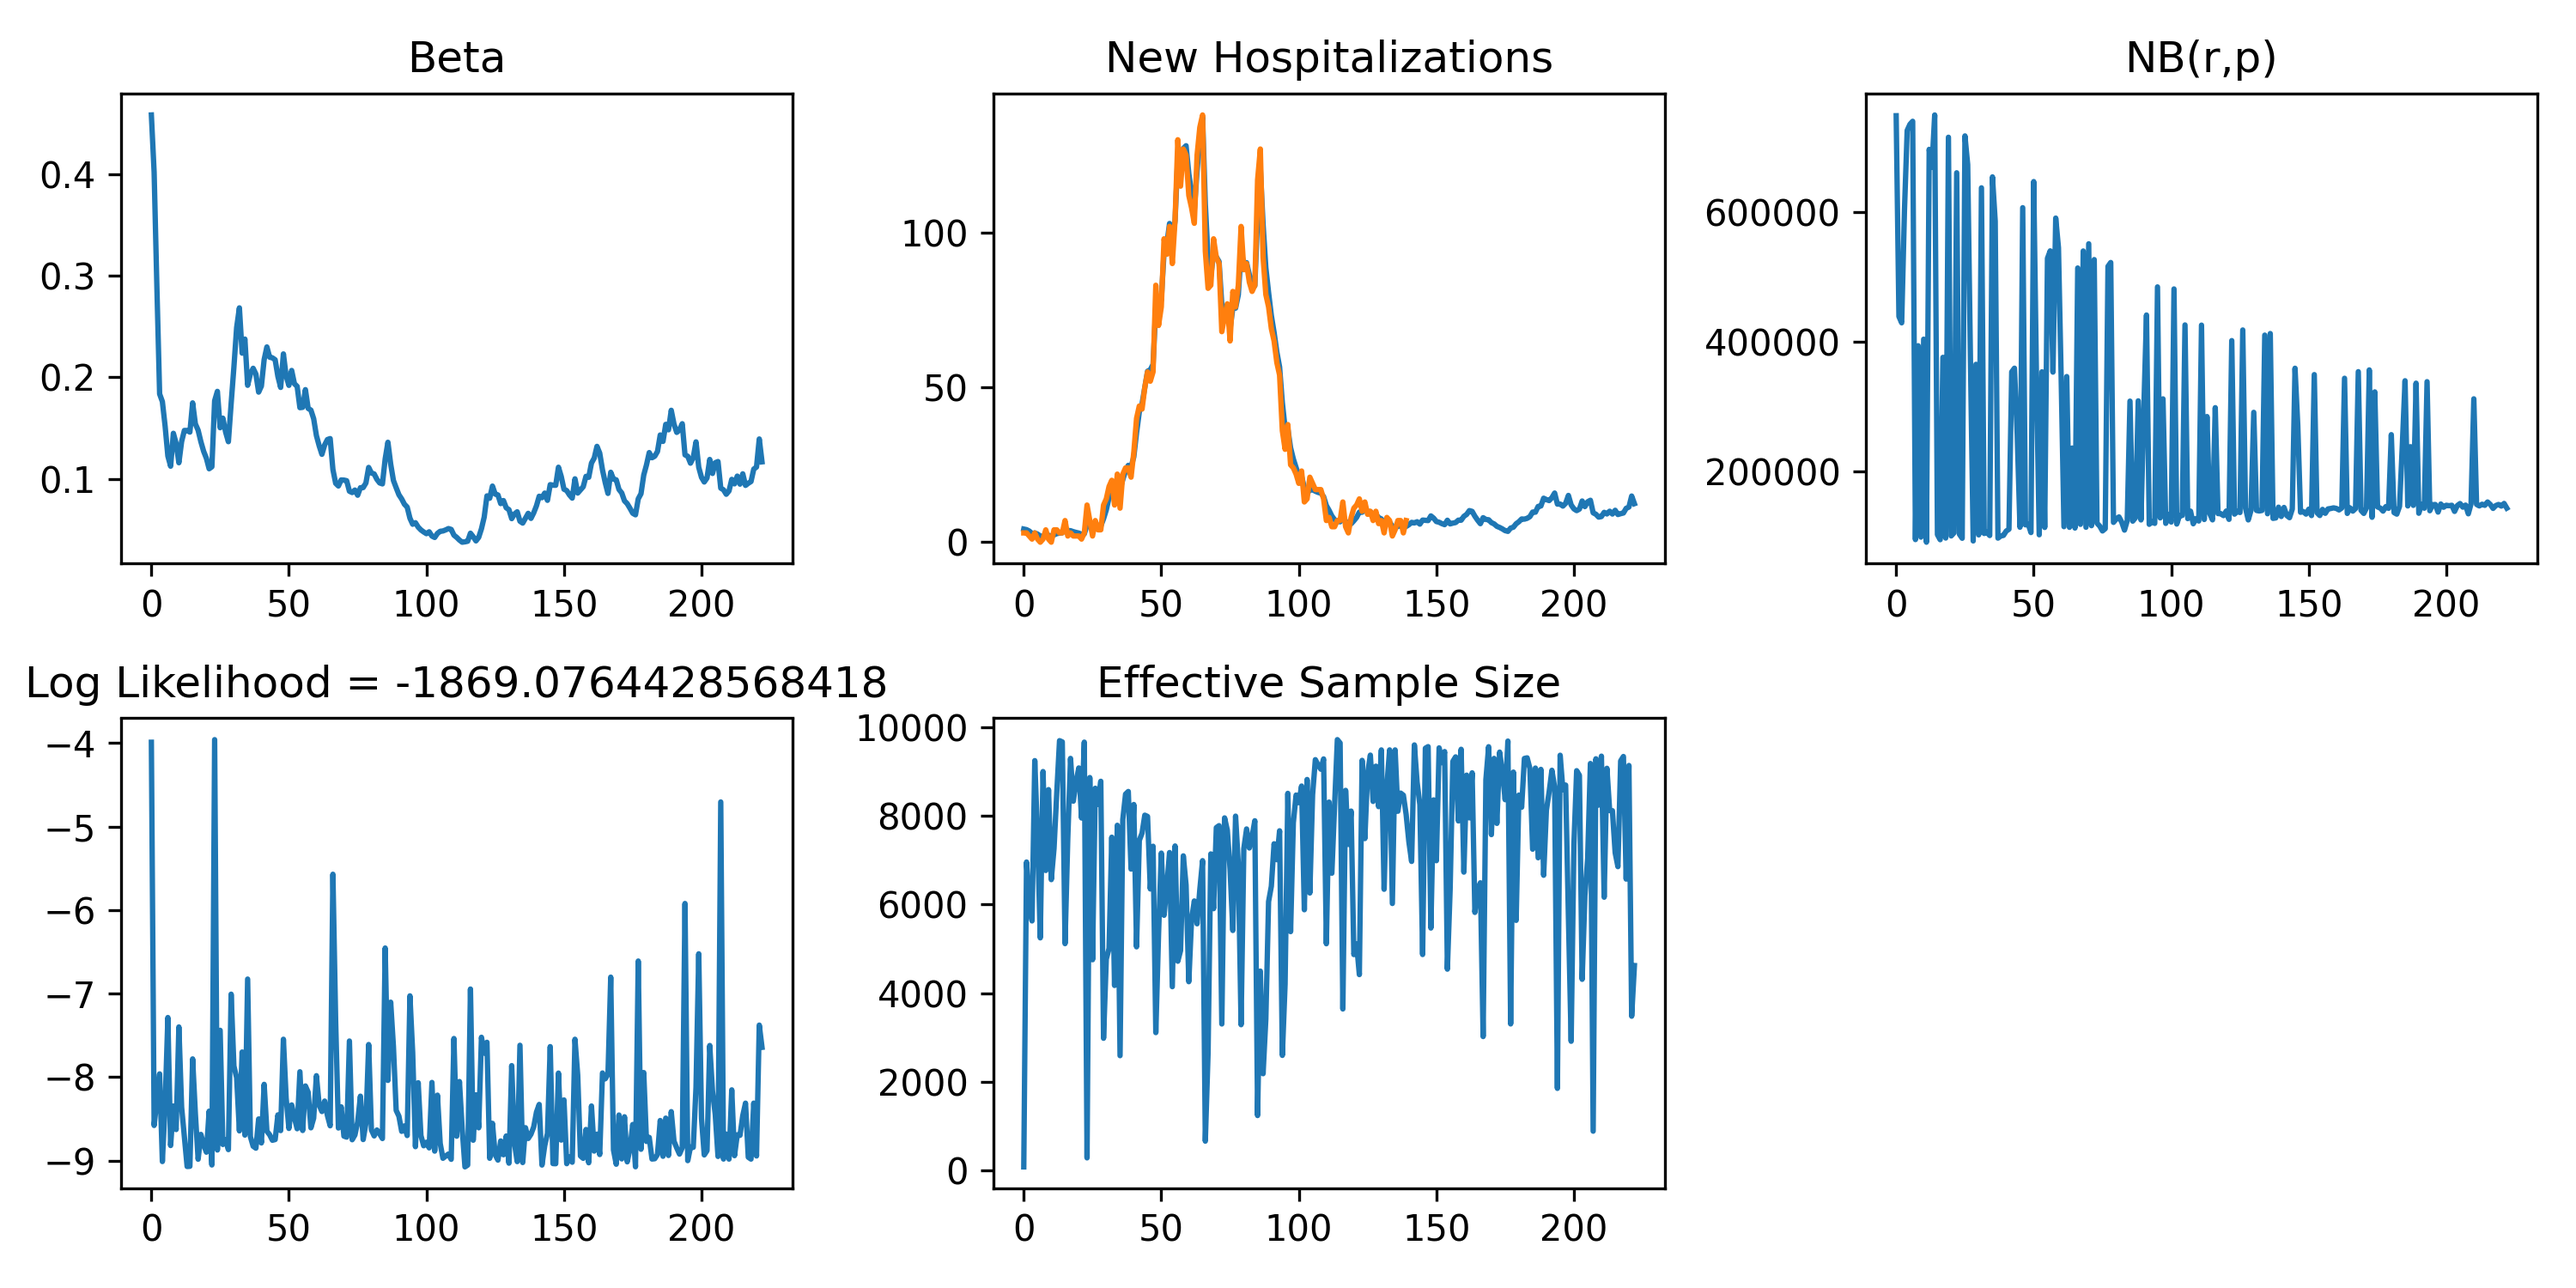
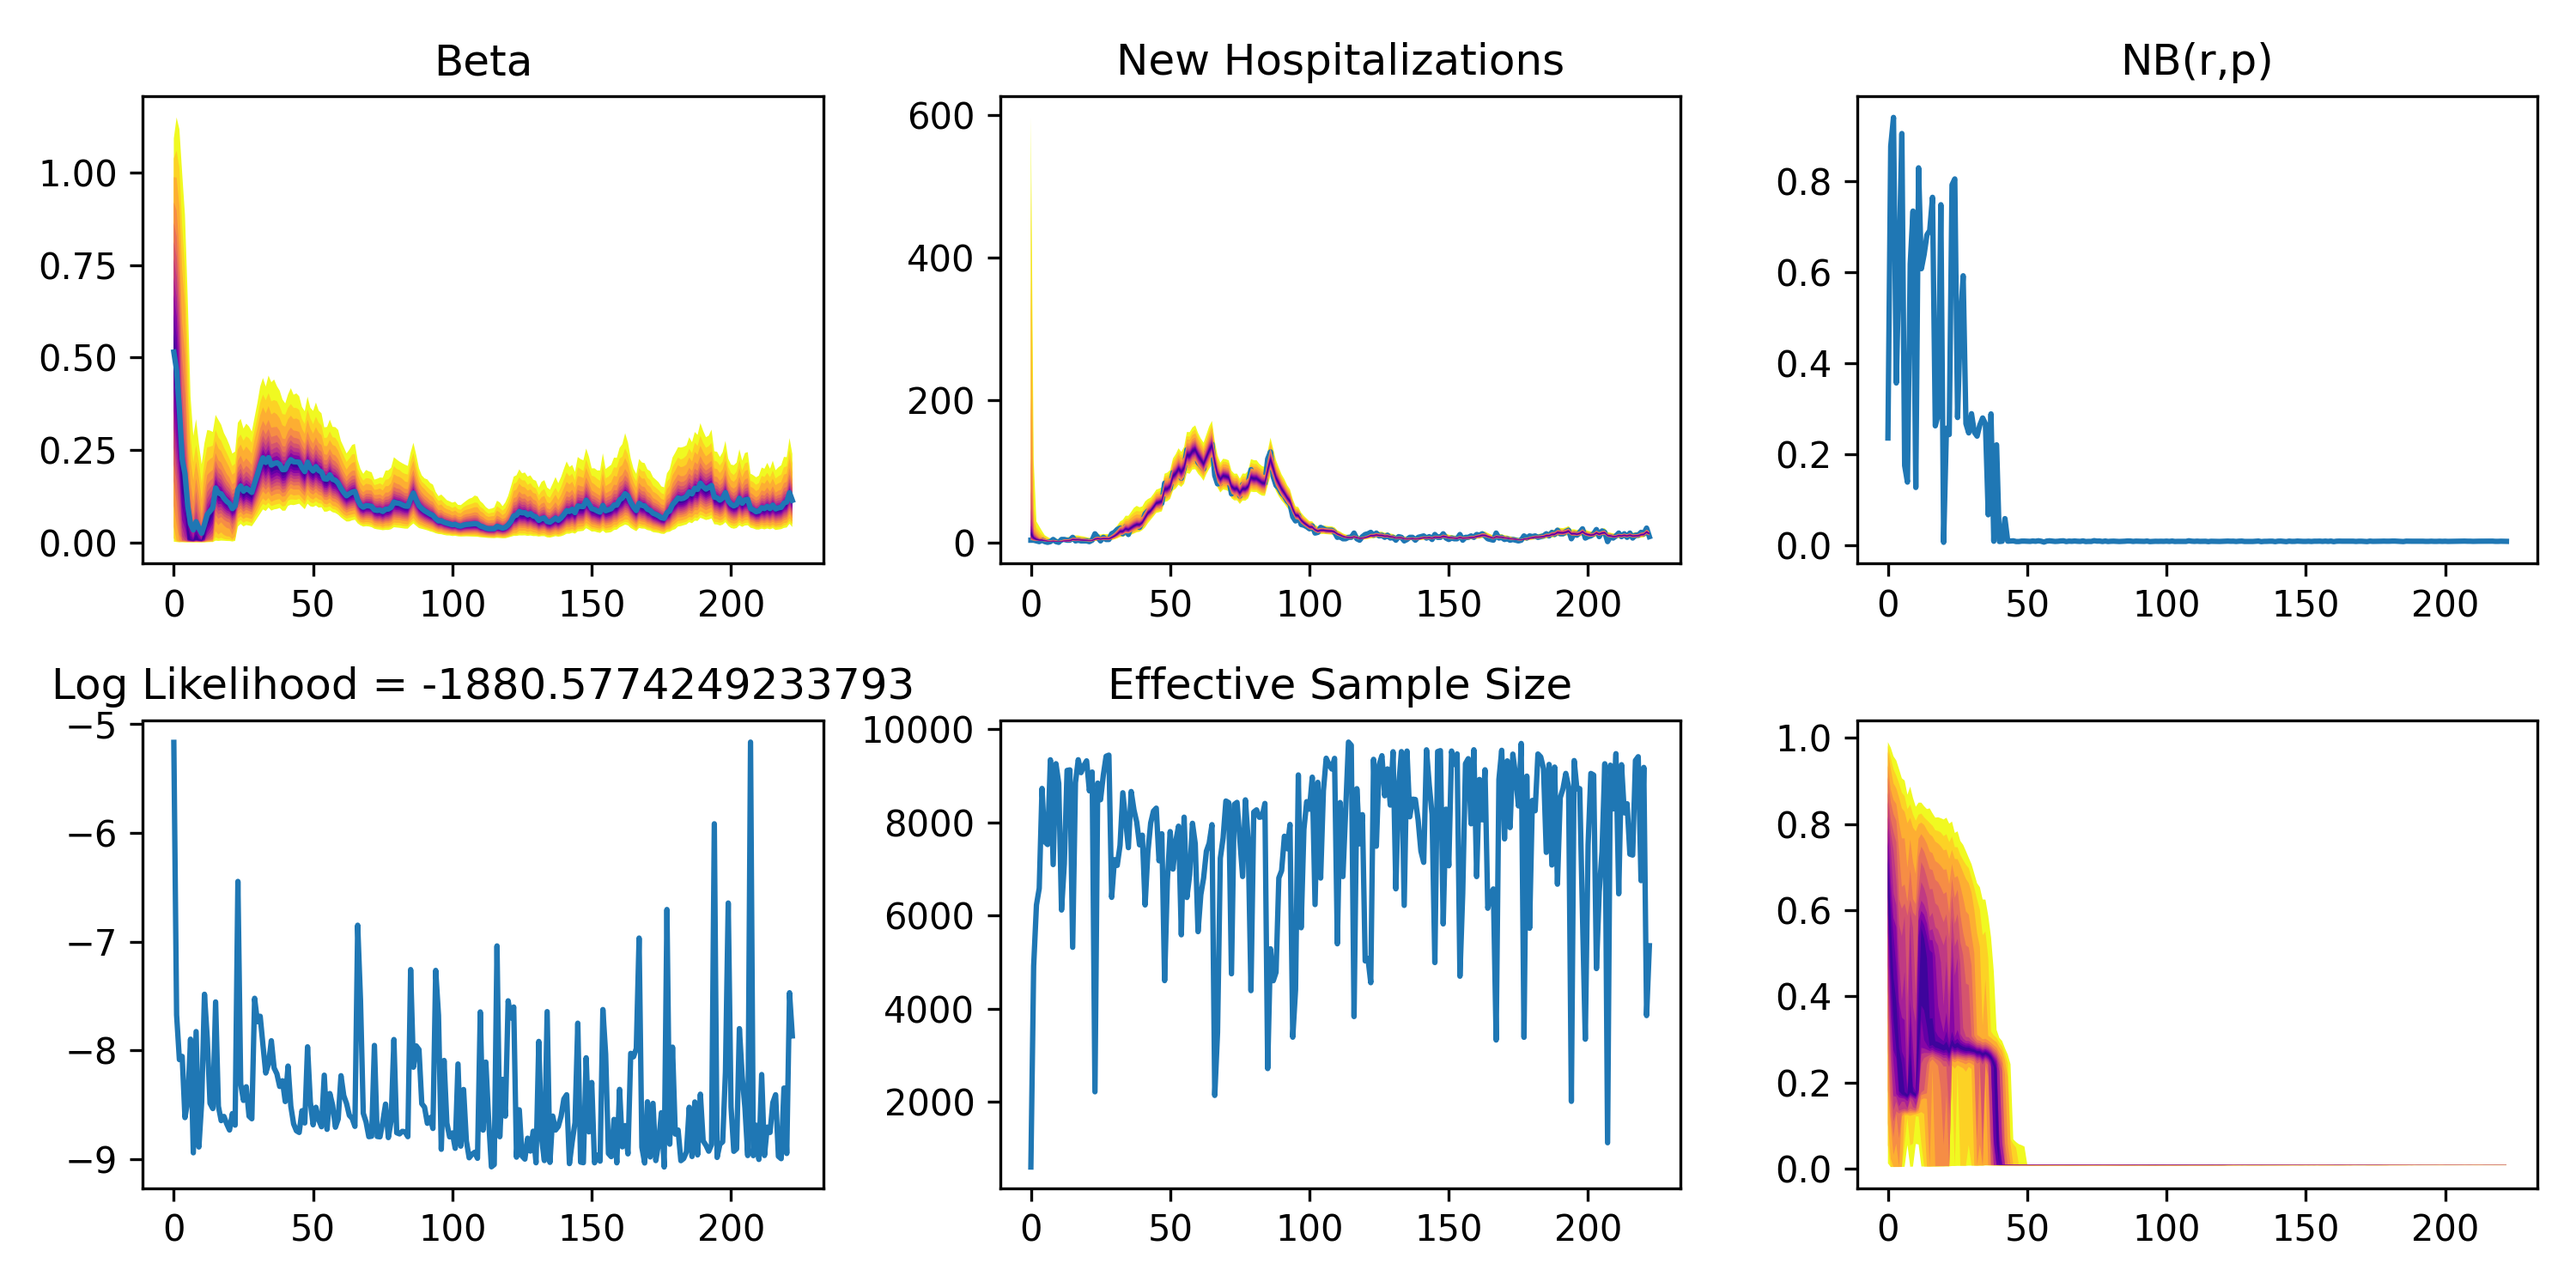
modified:   Implementations/algorithms/TimeDependentBeta.py 	modified:   Implementations/resamplers/resamplers.py 	modified:   figuresBigRh0.1.png 	modified:   main.py

diff --git a/Implementations/algorithms/TimeDependentBeta.py b/Implementations/algorithms/TimeDependentBeta.py
@@ -7,6 +7,7 @@ from utilities.Utils import *
 from typing import Dict,Callable
 import pandas as pd
 import matplotlib.pyplot as plt
+from matplotlib import cm
 
 from utilities.Utils import Context
 
@@ -50,6 +51,9 @@ class TimeDependentAlgo(Algorithm):
         state = []
         LL = []
         ESS = []
+        R_quantiles = []
+        state_quantiles = []
+        beta_quantiles = []
 
         while(self.ctx.clock.time < len(data)): 
             self.integrator.propagate(self.particles,self.ctx)
@@ -66,6 +70,9 @@ class TimeDependentAlgo(Algorithm):
 
             beta.append(np.mean([particle.param['beta'] for particle in self.particles]))
             R.append(particle_max.param['R'])
+            R_quantiles.append(quantiles([particle.param['R'] for particle in self.particles]))
+            state_quantiles.append(quantiles([particle.observation for particle in self.particles]))
+            beta_quantiles.append(quantiles([particle.param['beta'] for particle in self.particles]))
             D.append(particle_max.param['D'])
 
             ESS.append(1/np.sum(self.ctx.weights **2))
@@ -77,18 +84,28 @@ class TimeDependentAlgo(Algorithm):
             self.ctx.clock.tick()
 
         rowN = 3
-        N = 5
+        N = 6
+
+        R_quantiles = np.array(R_quantiles)
+        state_quantiles = np.array(state_quantiles)
+        beta_quantiles = np.array(beta_quantiles)
+
+        colors = cm.plasma(np.linspace(0, 1, 12)) # type: ignore
 
         fig = plt.clf()
         fig = plt.figure()
         fig.set_size_inches(10,5)
         ax = [plt.subplot(2,rowN,i+1) for i in range(N)]
 
-        ax[0].plot(beta,label='Beta')
+        ax[0].plot(beta,label='Beta',zorder=12)
+        for i in range(11):
+            ax[0].fill_between(np.arange(223), beta_quantiles[:,i], beta_quantiles[:,22-i], facecolor=colors[11 - i], zorder=i)
         ax[0].title.set_text('Beta')
 
-        ax[1].plot(state,label='New Hospitalizations')
-        ax[1].plot(data[:140])
+        #ax[1].plot(state,label='New Hospitalizations')
+        for i in range(11):
+            ax[1].fill_between(np.arange(223), state_quantiles[:,i], state_quantiles[:,22-i], facecolor=colors[11 - i], zorder=i)
+        ax[1].plot(data)
         ax[1].title.set_text('New Hospitalizations')
 
         ax[2].plot(R,label='NB(r,p)')
@@ -100,6 +117,10 @@ class TimeDependentAlgo(Algorithm):
 
         ax[4].plot(ESS,label='Effective Sample Size')
         ax[4].title.set_text('Effective Sample Size')
+
+        
+        for i in range(11):
+            ax[5].fill_between(np.arange(223), R_quantiles[:,i], R_quantiles[:,22-i], facecolor=colors[11 - i], zorder=i)
 
         fig.tight_layout()
         h = self.perturb.hyperparameters['h']

diff --git a/main.py b/main.py
@@ -6,6 +6,7 @@ from Implementations.perturbers.perturbers import MultivariatePerturbations
 from utilities.Utils import Context,ESTIMATION
 from functools import partial
 import matplotlib.pyplot as plt
+
 import pandas as pd
 import numpy as np
 
@@ -33,7 +34,7 @@ algo.initialize(params={
           "std":partial(algo.ctx.rng.uniform,20.,30.),
           "gamma":partial(algo.ctx.rng.normal,0.18687750960396116,0.1),
           "L":partial(algo.ctx.rng.uniform,1,75),
-          "R":partial(algo.ctx.rng.uniform,10000,1000000)
+          "R":partial(algo.ctx.rng.uniform,0.,1.)
           })
 data = pd.read_csv('./datasets/FLU_HOSPITALIZATIONS.csv').to_numpy()
 data = np.delete(data,0,1)

diff --git a/Implementations/resamplers/resamplers.py b/Implementations/resamplers/resamplers.py
@@ -94,7 +94,7 @@ class NBinomResampleR(Resampler):
     def compute_weights(self, observation: NDArray, particleArray:List[Particle]) -> NDArray[np.float64]:
         weights = np.zeros(len(particleArray))#initialize weights as an array of zeros
         for i in range(len(particleArray)): 
-            weights[i] = self.likelihood(np.round(observation),particleArray[i].observation,R=(particleArray[i].param['R']))
+            weights[i] = self.likelihood(np.round(observation),particleArray[i].observation,R=1/(particleArray[i].param['R']))
             '''iterate over the particles and call the likelihood function for each one '''
 
 
